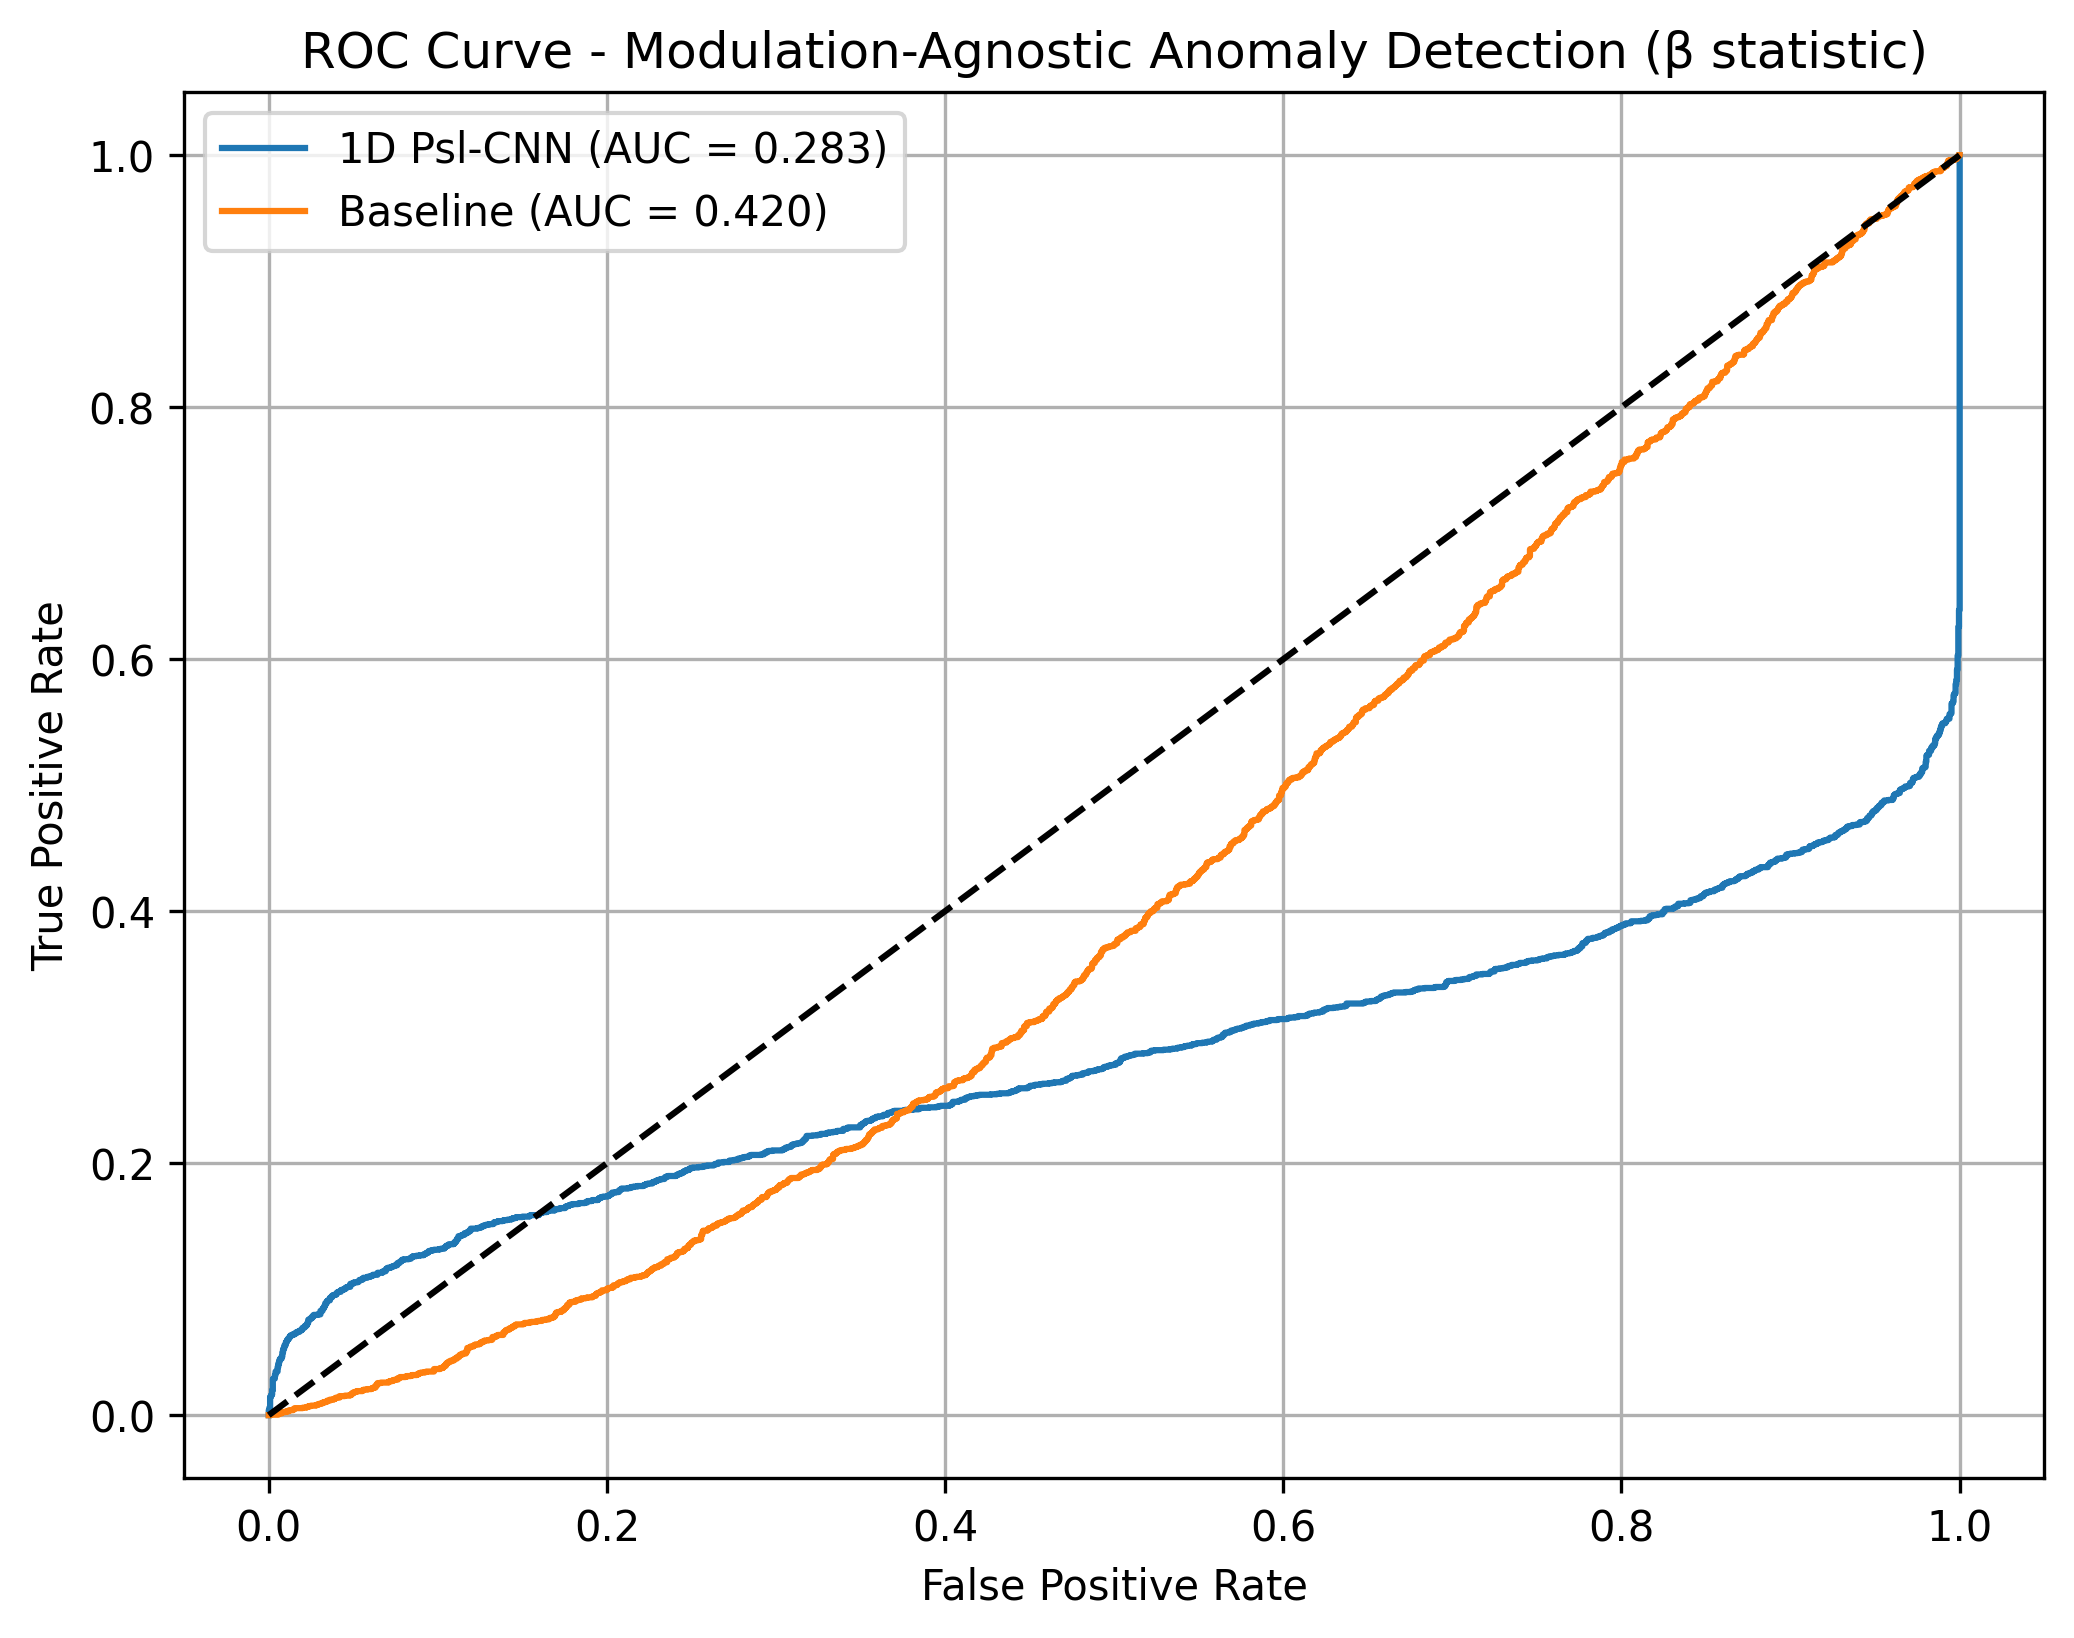
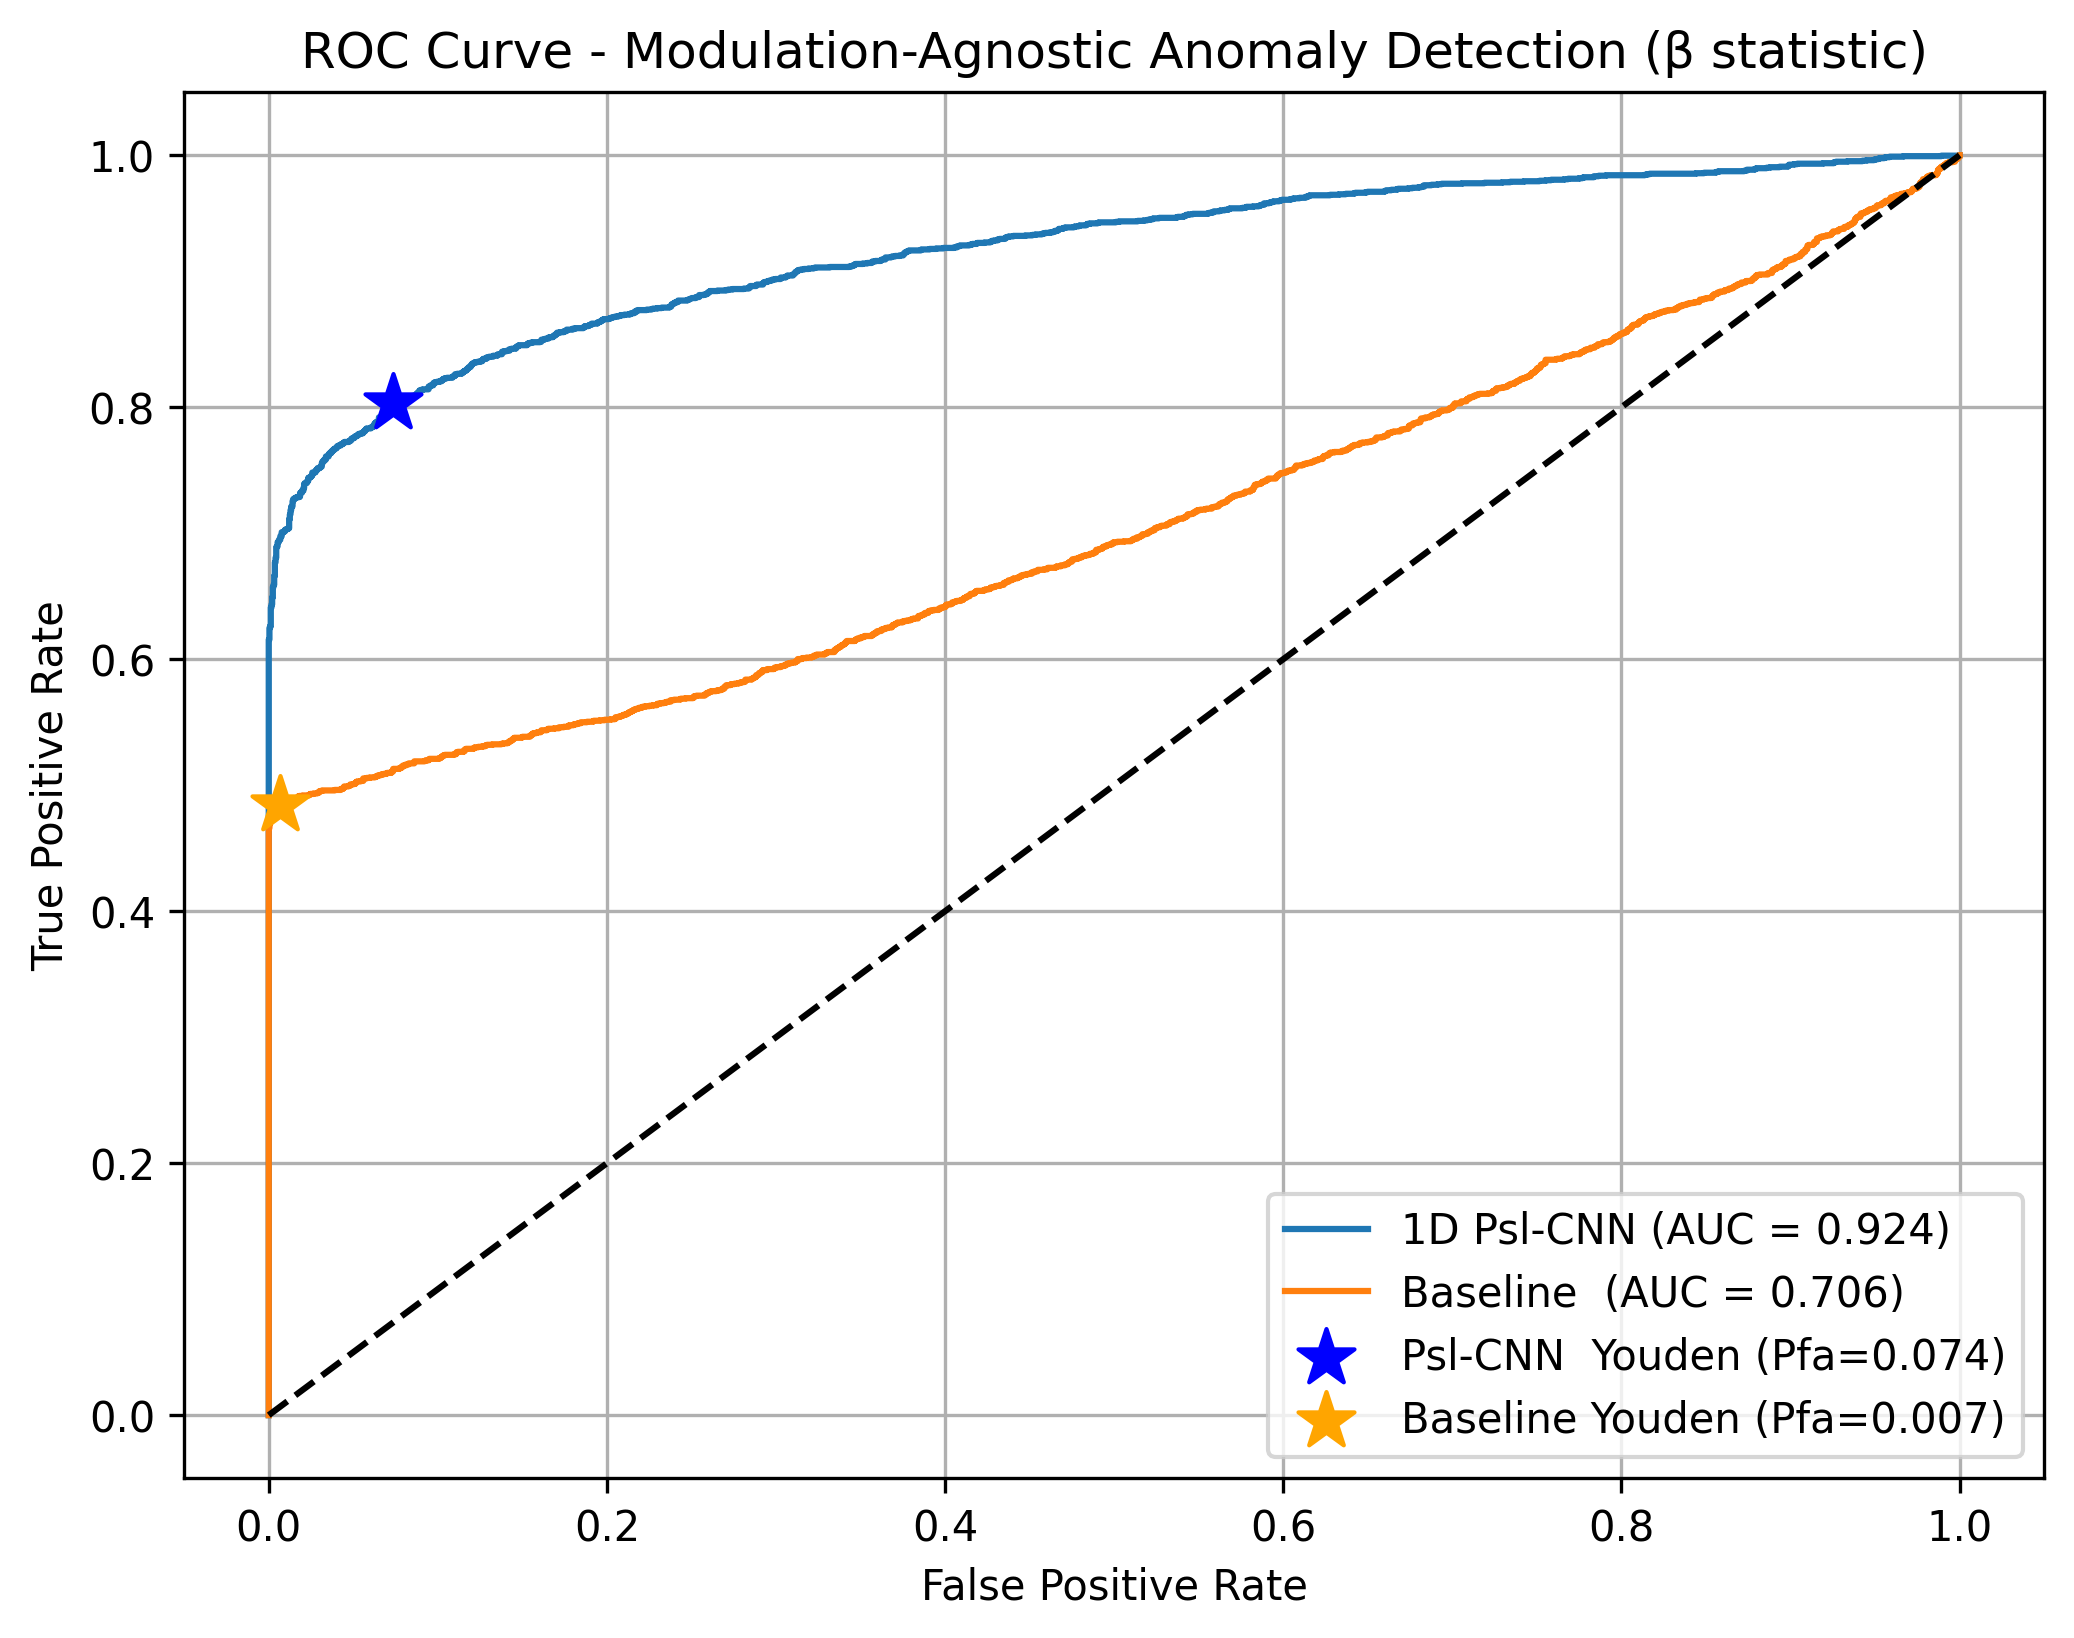
added inverted and forward architecture for evaluate anomalies

diff --git a/spectrum_data/evaluate_anomalies_forward.py b/spectrum_data/evaluate_anomalies_forward.py
@@ -1,0 +1,107 @@
+import numpy as np\
+from sklearn.metrics import roc_curve, auc\
+import matplotlib.pyplot as plt\
+from pathlib import Path\
+import time\
+from scipy.stats import norm   # for Q^\{-1\}(P_fa)\
+\
+from psinn_layer_1d import AE_Classifier1d, AE_Baseline_Classifier1d\
+\
+device = torch.device("cuda" if torch.cuda.is_available() else "cpu")\
+\
+# ====================== LOAD DATA ======================\
+test_dict = torch.load("spectrum_data/test_data.pt", weights_only=False)\
+test_data = test_dict["data"]\
+test_labels = test_dict["labels"].numpy()\
+\
+#need this in order to get gamma\
+train_noise = torch.load("spectrum_data/train_noise.pt", weights_only=False)  # plain tensor\
+\
+# ====================== LOAD MODELS ======================\
+model_psi = AE_Classifier1d(n_channels=2, n_classes=1, nf=16, k=3, use_dropout=True).to(device)\
+model_base = AE_Baseline_Classifier1d(n_channels=2, n_classes=1, nf=16, k=3, use_dropout=True).to(device)\
+\
+model_psi.load_state_dict(torch.load("spectrum_data/psl_cnn_100epochs.pth", weights_only=False))\
+model_base.load_state_dict(torch.load("spectrum_data/baseline_100epochs.pth", weights_only=False))\
+model_psi.eval()\
+model_base.eval()\
+\
+def compute_beta(model, data):\
+    """Compute \uc0\u946  (Coefficient of Determination) per sample - Eq. (5) in Pablos et al."""\
+    betas = []\
+    with torch.no_grad():\
+        for i in range(0, len(data), 128):\
+            batch = data[i:i+128].to(device)                    # (B, 2, 1024)\
+            recon = model.AE(batch)\
+\
+            sse = torch.sum((batch - recon)**2, dim=[1, 2])\
+            mean_x = torch.mean(batch, dim=[1, 2], keepdim=True)\
+            sst = torch.sum((batch - mean_x)**2, dim=[1, 2])\
+\
+            beta = 1.0 - (sse / (sst + 1e-8))                   # avoid div-by-zero\
+            betas.append(beta.cpu())\
+    return torch.cat(betas).numpy()\
+\
+# ====================== TRAINING NOISE STATISTICS (H0) ======================\
+print("Computing \uc0\u946  on training noise (H0) for threshold estimation...")\
+train_beta_psi  = compute_beta(model_psi,  train_noise)\
+train_beta_base = compute_beta(model_base, train_noise)\
+\
+mu_psi,  sigma_psi  = np.mean(train_beta_psi),  np.std(train_beta_psi)\
+mu_base, sigma_base = np.mean(train_beta_base), np.std(train_beta_base)\
+print(f"Psl-CNN  H0 \uc0\u946  \u8594  mean = \{mu_psi:.4f\},  std = \{sigma_psi:.4f\}")\
+print(f"Baseline H0 \uc0\u946  \u8594  mean = \{mu_base:.4f\}, std = \{sigma_base:.4f\}")\
+\
+# ====================== NEYMAN-PEARSON THRESHOLD \uc0\u947  ======================\
+#pfa = probability of false alarm = P(\uc0\u946  > \u947  | H0) = Q((\u947  - \u956 _\u946 ) / \u963 _\u946 )\
+#setting pfa to 1 percent, better youdan index to determine optimal pfa\
+target_pfa = 0.01\
+gamma_psi  = mu_psi  + norm.ppf(target_pfa) * sigma_psi   # Eq. (7)\
+gamma_base = mu_base + norm.ppf(target_pfa) * sigma_base\
+print(f"Target P_fa = \{target_pfa\} \uc0\u8594  \u947  Psl-CNN = \{gamma_psi:.4f\}, \u947  Baseline = \{gamma_base:.4f\}")\
+\
+# ====================== TEST SET EVALUATION ======================\
+print("\\nComputing \uc0\u946  scores on test set...")\
+beta_psi = compute_beta(model_psi, test_data)\
+beta_base = compute_beta(model_base, test_data)\
+\
+# ROC / AUC (lower \uc0\u946  = anomaly \u8594  negate)\
+fpr_psi, tpr_psi, _ = roc_curve(test_labels, -beta_psi)\
+fpr_base, tpr_base, _ = roc_curve(test_labels, -beta_base)\
+auc_psi = auc(fpr_psi, tpr_psi)\
+auc_base = auc(fpr_base, tpr_base)\
+\
+param_psi = sum(p.numel() for p in model_psi.parameters())\
+param_base = sum(p.numel() for p in model_base.parameters())\
+\
+\
+print(f"\\n=== FINAL RESULTS (Pablos et al. Step 3.3) ===")\
+print(f"Psl-CNN  AUC: \{auc_psi:.4f\}  \uc0\u947  = \{gamma_psi:.4f\}  params = \{param_psi:,\}")\
+print(f"Baseline AUC: \{auc_base:.4f\}  \uc0\u947  = \{gamma_base:.4f\}  params = \{param_base:,\}")\
+\
+# Save results\
+Path("spectrum_data").mkdir(exist_ok=True)\
+with open("spectrum_data/evaluation_results.txt", "w") as f:\
+    f.write("=== EVALUATION RESULTS (Pablos et al. Step 3.3 - \uc0\u946  + Neyman-Pearson) ===\\n")\
+    f.write(f"Date: \{time.strftime('%Y-%m-%d %H:%M:%S')\}\\n\\n")\
+    f.write(f"Psl-CNN AUC: \{auc_psi:.4f\}\\n")\
+    f.write(f"Baseline AUC: \{auc_base:.4f\}\\n")\
+    f.write(f"Psl-CNN  \uc0\u947  (P_fa=\{target_pfa\}): \{gamma_psi:.4f\}\\n")\
+    f.write(f"Baseline \uc0\u947  (P_fa=\{target_pfa\}): \{gamma_base:.4f\}\\n")\
+    f.write(f"Psl-CNN parameters: \{param_psi:,\}\\n")\
+    f.write(f"Baseline parameters: \{param_base:,\}\\n")\
+\
+# ROC plot\
+plt.figure(figsize=(8,6))\
+plt.plot(fpr_psi, tpr_psi, label=f'1D Psl-CNN (AUC = \{auc_psi:.3f\})')\
+plt.plot(fpr_base, tpr_base, label=f'Baseline (AUC = \{auc_base:.3f\})')\
+plt.plot([0,1], [0,1], 'k--')\
+plt.xlabel('False Positive Rate')\
+plt.ylabel('True Positive Rate')\
+plt.title('ROC Curve - Modulation-Agnostic Anomaly Detection (\uc0\u946  statistic)')\
+plt.legend()\
+plt.grid(True)\
+plt.savefig("spectrum_data/roc_comparison.png", dpi=300, bbox_inches='tight')\
+plt.close()\
+\
+print("\uc0\u9989  Evaluation complete! Results saved in spectrum_data/")}

diff --git a/evaluate_anomaly_inverted.py b/evaluate_anomaly_inverted.py
@@ -22,8 +22,8 @@ train_noise = torch.load("spectrum_data/train_noise.pt", weights_only=False)  # 
 model_psi = AE_Classifier1d(n_channels=2, n_classes=1, nf=16, k=3, use_dropout=True).to(device)
 model_base = AE_Baseline_Classifier1d(n_channels=2, n_classes=1, nf=16, k=3, use_dropout=True).to(device)
 
-model_psi.load_state_dict(torch.load("spectrum_data/psl_cnn_100epochs.pth", weights_only=False))
-model_base.load_state_dict(torch.load("spectrum_data/baseline_100epochs.pth", weights_only=False))
+model_psi.load_state_dict(torch.load("spectrum_data/psl_cnn_200epochs.pth", weights_only=False))
+model_base.load_state_dict(torch.load("spectrum_data/baseline_200epochs.pth", weights_only=False))
 model_psi.eval()
 model_base.eval()
 
@@ -57,8 +57,8 @@ print(f"Baseline H0 β → mean = {mu_base:.4f}, std = {sigma_base:.4f}")
 #pfa = probability of false alarm = P(β > γ | H0) = Q((γ - μ_β) / σ_β)
 #setting pfa to 1 percent, better youdan index to determine optimal pfa
 target_pfa = 0.01
-gamma_psi  = mu_psi  + norm.ppf(target_pfa) * sigma_psi   # Eq. (7)
-gamma_base = mu_base + norm.ppf(target_pfa) * sigma_base
+gamma_psi  = mu_psi  + norm.ppf(1 - target_pfa) * sigma_psi   # upper tail: β > γ → anomaly
+gamma_base = mu_base + norm.ppf(1 - target_pfa) * sigma_base
 print(f"Target P_fa = {target_pfa} → γ Psl-CNN = {gamma_psi:.4f}, γ Baseline = {gamma_base:.4f}")
 
 # ====================== TEST SET EVALUATION ======================
@@ -66,19 +66,34 @@ print("\nComputing β scores on test set...")
 beta_psi = compute_beta(model_psi, test_data)
 beta_base = compute_beta(model_base, test_data)
 
-# ROC / AUC (lower β = anomaly → negate)
-fpr_psi, tpr_psi, _ = roc_curve(test_labels, -beta_psi)
-fpr_base, tpr_base, _ = roc_curve(test_labels, -beta_base)
-auc_psi = auc(fpr_psi, tpr_psi)
+# ROC / AUC (higher β = anomaly — model reconstructs signals better than noise)
+fpr_psi,  tpr_psi,  thresholds_psi  = roc_curve(test_labels, beta_psi)
+fpr_base, tpr_base, thresholds_base = roc_curve(test_labels, beta_base)
+auc_psi  = auc(fpr_psi,  tpr_psi)
 auc_base = auc(fpr_base, tpr_base)
 
-param_psi = sum(p.numel() for p in model_psi.parameters())
-param_base = sum(p.numel() for p in model_base.parameters())
+# Youden Index: optimal point on ROC = max(TPR - FPR)
+# This gives the best trade-off between sensitivity and specificity
+youden_psi  = tpr_psi  - fpr_psi
+youden_base = tpr_base - fpr_base
 
+best_idx_psi  = np.argmax(youden_psi)
+best_idx_base = np.argmax(youden_base)
+
+optimal_pfa_psi  = fpr_psi[best_idx_psi]   # FPR at optimal point = Pfa
+optimal_pfa_base = fpr_base[best_idx_base]
+optimal_tpr_psi  = tpr_psi[best_idx_psi]
+optimal_tpr_base = tpr_base[best_idx_base]
+
+param_psi  = sum(p.numel() for p in model_psi.parameters())
+param_base = sum(p.numel() for p in model_base.parameters())
 
 print(f"\n=== FINAL RESULTS (Pablos et al. Step 3.3) ===")
 print(f"Psl-CNN  AUC: {auc_psi:.4f}  γ = {gamma_psi:.4f}  params = {param_psi:,}")
 print(f"Baseline AUC: {auc_base:.4f}  γ = {gamma_base:.4f}  params = {param_base:,}")
+print(f"\n=== YOUDEN INDEX (Optimal Pfa) ===")
+print(f"Psl-CNN  optimal Pfa = {optimal_pfa_psi:.4f}  TPR = {optimal_tpr_psi:.4f}  Youden = {youden_psi[best_idx_psi]:.4f}")
+print(f"Baseline optimal Pfa = {optimal_pfa_base:.4f}  TPR = {optimal_tpr_base:.4f}  Youden = {youden_base[best_idx_base]:.4f}")
 
 # Save results
 Path("spectrum_data").mkdir(exist_ok=True)
@@ -94,8 +109,10 @@ with open("spectrum_data/evaluation_results.txt", "w") as f:
 
 # ROC plot
 plt.figure(figsize=(8,6))
-plt.plot(fpr_psi, tpr_psi, label=f'1D Psl-CNN (AUC = {auc_psi:.3f})')
-plt.plot(fpr_base, tpr_base, label=f'Baseline (AUC = {auc_base:.3f})')
+plt.plot(fpr_psi,  tpr_psi,  label=f'1D Psl-CNN (AUC = {auc_psi:.3f})')
+plt.plot(fpr_base, tpr_base, label=f'Baseline  (AUC = {auc_base:.3f})')
+plt.scatter(optimal_pfa_psi,  optimal_tpr_psi,  marker='*', s=200, color='blue',  zorder=5, label=f'Psl-CNN  Youden (Pfa={optimal_pfa_psi:.3f})')
+plt.scatter(optimal_pfa_base, optimal_tpr_base, marker='*', s=200, color='orange', zorder=5, label=f'Baseline Youden (Pfa={optimal_pfa_base:.3f})')
 plt.plot([0,1], [0,1], 'k--')
 plt.xlabel('False Positive Rate')
 plt.ylabel('True Positive Rate')

diff --git a/generate_spectrum_dataset.py b/generate_spectrum_dataset.py
@@ -26,12 +26,12 @@ def generate_iq_dataset(
     np.random.seed(42)
     torch.manual_seed(42)
 
-    # === TRAINING SET: Pure AWGN noise only ===
+    # Training Set
     
     train_noise = torch.randn(num_train, 2, length, dtype=torch.float32)
     train_noise = (train_noise - train_noise.mean()) / train_noise.std()
 
-    # === TEST SET: Noise + various modulations (modulation-agnostic) ===
+    # TEST SET 
     test_data = []
     test_labels = []   # 0 = pure noise, 1 = signal present (anomaly)
     test_snrs = []
@@ -86,7 +86,7 @@ def generate_iq_dataset(
 
     return train_noise, test_data, test_labels, test_snrs, test_mods
 
-# ========================== MAIN ==========================
+# Main function to generate and save dataset
 if __name__ == "__main__":
     print("Generating spectrum-sensing dataset (Option 1 - Pure Python)...")
     
